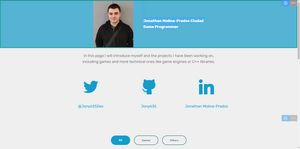
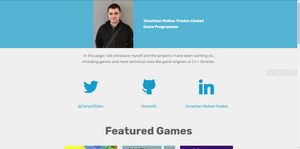
button links

diff --git a/Web/index.html b/Web/index.html
@@ -47,7 +47,7 @@
     </div>
 </section>
 
-<section class="engine"><a href="https://mobirise.info/s">free bootstrap themes</a></section><section class="header1 cid-rtVYWRZPhj" id="header16-4">
+<section class="engine"><a href="https://mobirise.info/t">free amp template</a></section><section class="header1 cid-rtVYWRZPhj" id="header16-4">
 
     
 
@@ -151,11 +151,9 @@
                             Kayak</h4>
                         <p class="mbr-text mbr-fonts-style display-7">The winner of the 2nd CITM Gamejam, developed by 5 people in 30 hours, using Unity3D Engine.<br><br>It consists of a 2vs2 local-multiplayer party game based on kayak races.<br><br><br><br></p>
                     </div>
-                    <div class="mbr-section-btn text-center">
-                        <a href="https://mobirise.co" class="btn btn-primary display-4">
+                    <div class="mbr-section-btn text-center"><a href="https://github.com/teamrocketo/Kayak/releases" class="btn btn-primary display-4" target="_blank">
                             Learn More
-                        </a>
-                    </div>
+                        </a></div>
                 </div>
             </div>
 
@@ -168,11 +166,9 @@
                         <h4 class="card-title mbr-fonts-style display-7">Alita: Unbreakable Warrior</h4>
                         <p class="mbr-text mbr-fonts-style display-7">This was our last official project in the university. It was developed by 20 students, organized like a real studio with different departments following a scrum-based development.<br><br>It consists of an action RPG (Diablo style) game based on the Alita universe.<br></p>
                     </div>
-                    <div class="mbr-section-btn text-center">
-                        <a href="https://mobirise.co" class="btn btn-primary display-4">
+                    <div class="mbr-section-btn text-center"><a href="https://alitaunbreakablewarrior.github.io/" class="btn btn-primary display-4" target="_blank">
                             Learn More
-                        </a>
-                    </div>
+                        </a></div>
                 </div>
             </div>
 
@@ -187,11 +183,9 @@
                         <p class="mbr-text mbr-fonts-style display-7">
                             This was our second official project in the university. It was developed by 7 students, each one having one main responsability in the development process.<br><br>It consists of a rogue-like / action RPG where Thrall has to explore a dungeon and defeat the final boss: Gul'dan.<br></p>
                     </div>
-                    <div class="mbr-section-btn text-center">
-                        <a href="https://mobirise.co" class="btn btn-primary display-4">
+                    <div class="mbr-section-btn text-center"><a href="https://softcactusteam.github.io/Warcraft-Heroes-Beyond-Time/" class="btn btn-primary display-4" target="_blank">
                             Learn More
-                        </a>
-                    </div>
+                        </a></div>
                 </div>
             </div>
 
